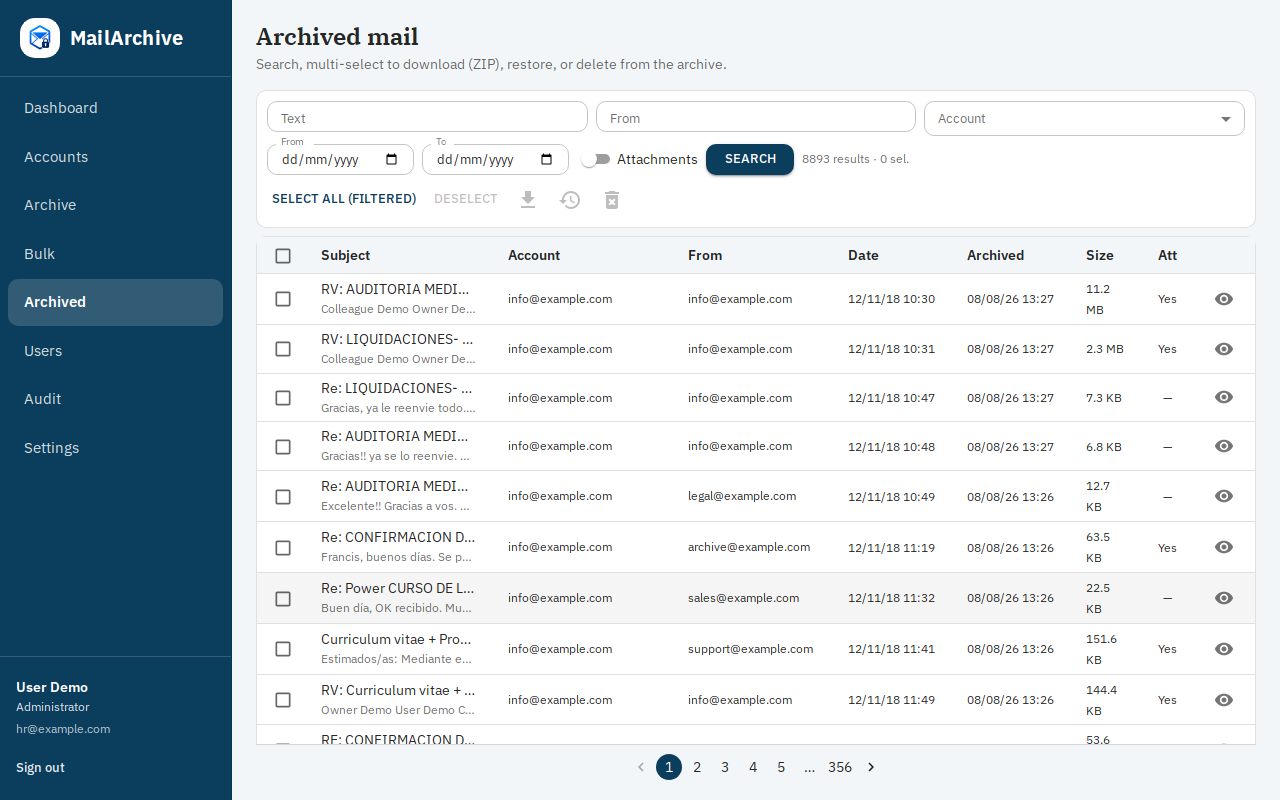
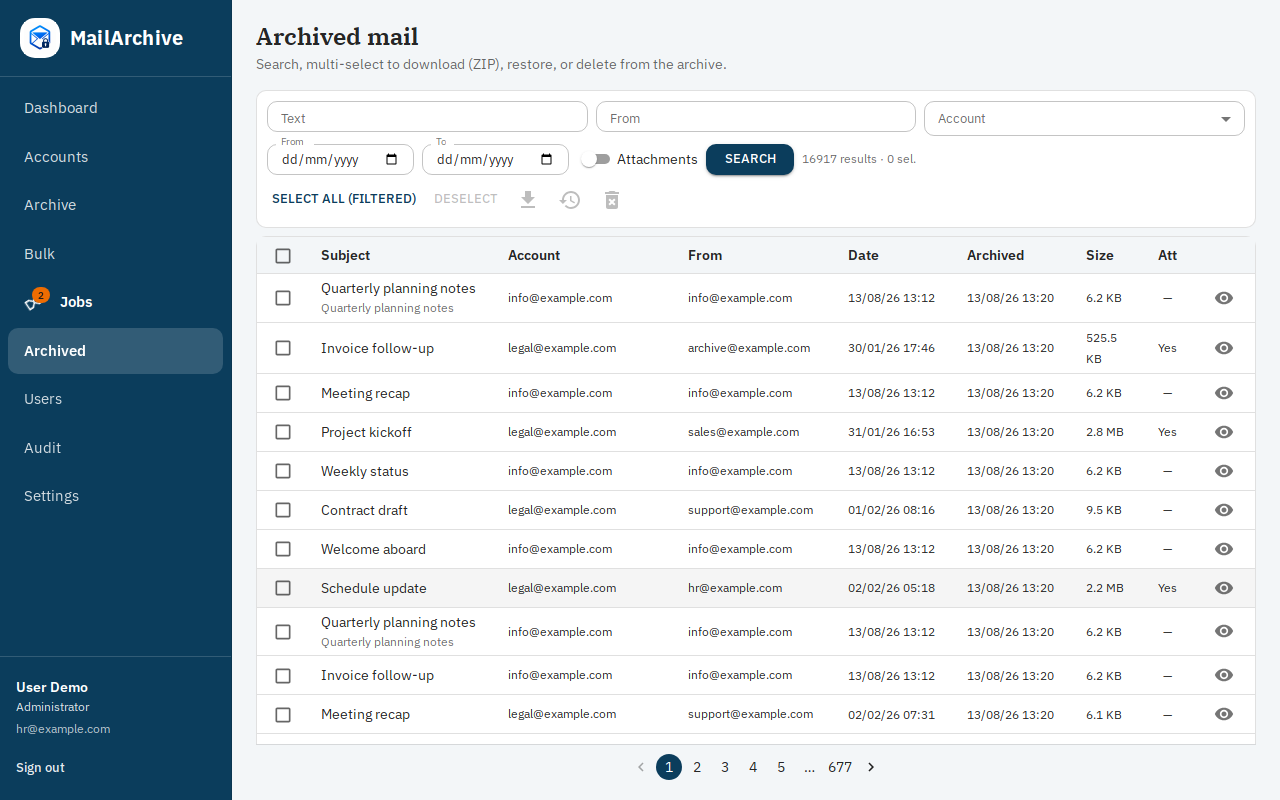
docs: refresh screenshots and add jobs, restore, and bulk gallery
Redact live PII in captures and publish the missing 1.1.0 UI shots on README and GitHub Pages.

diff --git a/landing/src/App.tsx b/landing/src/App.tsx
@@ -229,6 +229,11 @@ export default function App() {
               ["dashboard.png", "Dashboard"],
               ["archive.png", "Archived search"],
               ["accounts.png", "Accounts"],
+              ["jobs.png", "Jobs"],
+              ["bulk.png", "Bulk archive"],
+              ["restore.png", "Restore"],
+              ["users.png", "Users"],
+              ["settings.png", "Settings"],
             ].map(([src, alt]) => (
               <figure key={src} className="overflow-hidden rounded-2xl border border-ink/10 bg-white shadow-sm">
                 <img src={asset(`images/${src}`)} alt={alt} className="w-full" loading="lazy" />

diff --git a/README.md b/README.md
@@ -94,6 +94,14 @@ MailArchive gives your organization a **central archive** you host and govern: s
 |-----------------|----------|
 | ![Archive search](docs/images/archive.png) | ![Accounts](docs/images/accounts.png) |
 
+| Jobs | Bulk archive |
+|------|--------------|
+| ![Jobs](docs/images/jobs.png) | ![Bulk archive](docs/images/bulk.png) |
+
+| Restore |
+|---------|
+| ![Restore to another account](docs/images/restore.png) |
+
 ---
 
 ## Technical highlights
